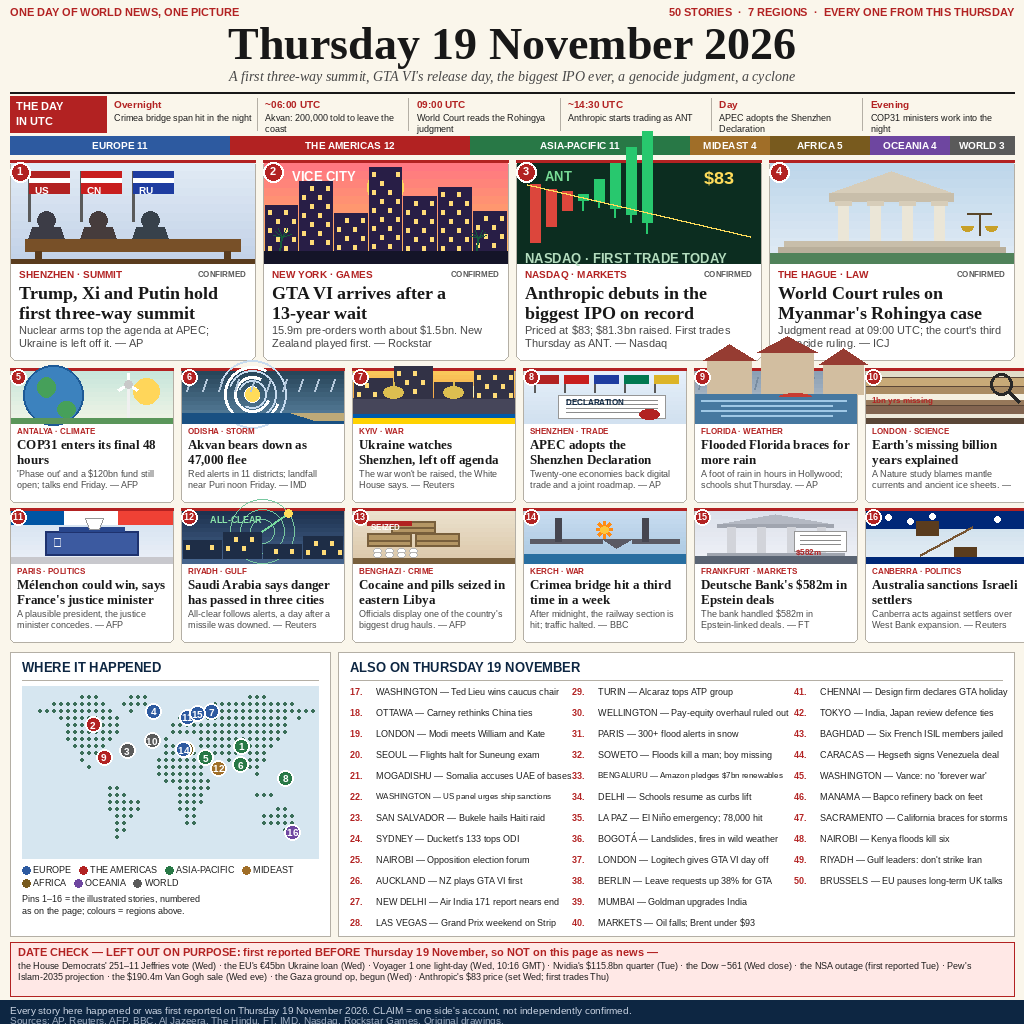
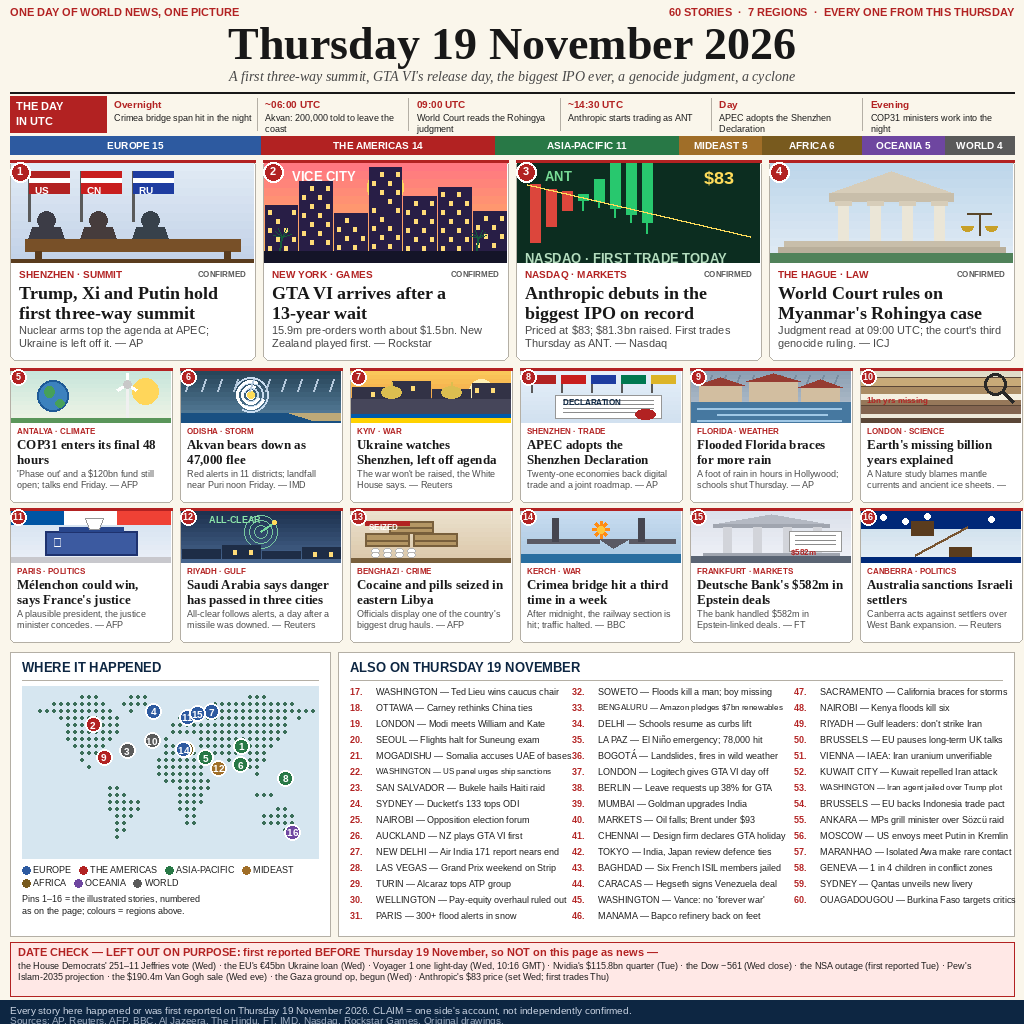
v4: fix #4/#10 overlap (layer-clipped pictures, scaled medium art), 60 stories

diff --git a/draw.py b/draw.py
@@ -1,10 +1,16 @@
 #!/usr/bin/env python3
-"""Thursday 19 November 2026 front page, v3 (1024x1024, Pillow).
+"""Thursday 19 November 2026 front page, v4 (1024x1024, Pillow).
 
-v3 rebuild after v1 graded 975,839 (#1,125 of 4,363; top-50 bar 986,994)
-and v2 was shown to Giber but not approved for submit. Two winner studies
-drive this version:
+v4: Giber spotted a real defect in v3 — the Florida houses in pic_flood
+drew above their card and covered lead #4's deck ("genocide" -> "...cide
+ruling"). Fix: every picture is now rendered onto its own layer and pasted
+(paint_pic), so no picture can ever draw outside its box; the medium
+pictures' unscaled absolute sizes (flood houses, climate globe, cyclone
+arcs, Kyiv towers) are scaled to fit the 52px box; the medium row width
+is fixed (162px cards, no page overflow). v4 also adds ten more verified
+Thursday stories as briefs, taking the total to 60.
 
+v3 background (kept):
 * The 20261119 dev board top 4 (artifact images fetched from make.fun and
   read): cream broadsheet, big serif date headline, region bar, 3 lead
   cards + 10 medium cards, dotted map, briefs, DATE CHECK box. v2 copied
@@ -107,6 +113,20 @@ def paint_lines(d, x, y, text, f, max_w, fill, gap=None, limit=None):
 
 def frame(d, box, fill=None, edge=None, width=1, radius=6):
     d.rounded_rectangle(box, radius=radius, fill=fill, outline=edge, width=width)
+
+
+def paint_pic(img, box, pic):
+    """Render a picture onto its own layer and paste it, so no picture can
+    ever draw outside its box. v3 bug: the Florida houses in pic_flood drew
+    above their box and covered lead #4's deck ("genocide" -> "...cide").
+    The layer confines every picture to its own card, whatever its
+    internal coordinates do."""
+    x0, y0, x1, y1 = box
+    w, h = int(x1 - x0), int(y1 - y0)
+    layer = Image.new("RGB", (w, h), (255, 255, 255))
+    ld = ImageDraw.Draw(layer)
+    pic(ld, (0, 0, w, h))
+    img.paste(layer, (int(x0), int(y0)))
 
 
 # ------------------------------------------------------------------ world map
@@ -378,11 +398,13 @@ def pic_climate(d, box):
     x0, y0, x1, y1 = box
     s = (y1 - y0) / 100.0
     paint_sun(d, x1 - 26, y0 + 20, 13)
-    gx, gy, gr = x0 + 42, y0 + 48 * s, 30
+    gx, gy, gr = x0 + 42, y0 + 48 * s, 30 * s
     d.ellipse([gx - gr, gy - gr, gx + gr, gy + gr], fill=(60, 130, 190),
               outline=(30, 90, 150), width=2)
-    d.ellipse([gx - 16, gy - 18, gx + 2, gy + 2], fill=(70, 160, 90))
-    d.ellipse([gx + 4, gy + 6, gx + 22, gy + 22], fill=(70, 160, 90))
+    d.ellipse([gx - 16 * s, gy - 18 * s, gx + 2 * s, gy + 2 * s],
+              fill=(70, 160, 90))
+    d.ellipse([gx + 4 * s, gy + 6 * s, gx + 22 * s, gy + 22 * s],
+              fill=(70, 160, 90))
     tx = x1 - 44
     d.line([(tx, y1 - 8 * s), (tx, y0 + 26 * s)], fill=(240, 240, 240), width=3)
     hx, hy = tx, y0 + 26 * s
@@ -399,12 +421,13 @@ def pic_cyclone(d, box):
     x0, y0, x1, y1 = box
     s = (y1 - y0) / 100.0
     cx, cy = (x0 + x1) / 2 - 10, (y0 + y1) / 2 - 4 * s
-    for r0 in (8, 18, 28):
+    for r0 in (8 * s, 18 * s, 28 * s):
         d.arc([cx - r0, cy - r0, cx + r0, cy + r0], 20, 300,
               fill=(255, 255, 255), width=3)
-        d.arc([cx - r0 - 6, cy - r0 - 6, cx + r0 + 6, cy + r0 + 6], 200, 120,
-              fill=(200, 220, 240), width=2)
-    d.ellipse([cx - 7, cy - 7, cx + 7, cy + 7], fill=(255, 220, 90))
+        d.arc([cx - r0 - 6 * s, cy - r0 - 6 * s, cx + r0 + 6 * s,
+               cy + r0 + 6 * s], 200, 120, fill=(200, 220, 240), width=2)
+    er = 7 * s
+    d.ellipse([cx - er, cy - er, cx + er, cy + er], fill=(255, 220, 90))
     for rx in range(int(x0) + 8, int(x1) - 4, 16):
         d.line([(rx, y0 + 8), (rx - 4, y0 + 20)], fill=(180, 200, 220), width=2)
     d.rectangle([x0, y1 - 18 * s, x1, y1], fill=(25, 80, 130))
@@ -420,7 +443,8 @@ def pic_kyiv(d, box):
     # Kyiv skyline: domes + towers, Ukrainian flag band
     d.rectangle([x0, y0 + 52 * s, x1, y1], fill=(70, 70, 90))
     paint_towers(d, (x0, y0 + 20 * s, x1, y0 + 52 * s), y0 + 52 * s,
-                 [20, 32, 16, 28], (50, 50, 70), win=(255, 220, 120))
+                 [20 * s, 32 * s, 16 * s, 28 * s], (50, 50, 70),
+                 win=(255, 220, 120))
     for fx in (x0 + 40, x0 + 100):
         d.ellipse([fx - 10, y0 + 30 * s, fx + 10, y0 + 52 * s],
                   fill=(220, 190, 80))
@@ -457,20 +481,25 @@ def pic_flood(d, box):
     paint_sky(d, box, (140, 160, 180), (190, 200, 210))
     x0, y0, x1, y1 = box
     s = (y1 - y0) / 100.0
+    # rain streaks in the top strip
     for rx in range(int(x0) + 6, int(x1) - 4, 14):
-        d.line([(rx, y0 + 6), (rx - 3, y0 + 18)], fill=(120, 140, 160), width=2)
-    for hx, hw, hh in [(x0 + 12, 44, 34), (x0 + 66, 52, 42), (x0 + 128, 40, 30)]:
-        d.rectangle([hx, y0 + 46 * s - hh, hx + hw, y0 + 46 * s],
-                    fill=(210, 190, 160))
-        d.polygon([(hx - 4, y0 + 46 * s - hh), (hx + hw + 4, y0 + 46 * s - hh),
-                   (hx + hw / 2, y0 + 46 * s - hh - 16)], fill=(150, 60, 50))
-    d.rectangle([x0, y0 + 46 * s, x1, y1], fill=(70, 120, 160))
-    for i in range(4):
-        yy = y0 + 56 * s + i * 10 * s
+        d.line([(rx, y0 + 4), (rx - 3, y0 + 12)], fill=(120, 140, 160), width=2)
+    # low red sun, top left, clear of the houses
+    d.ellipse([x0 + 4, y0 + 4, x0 + 14, y0 + 14], fill=(200, 60, 50))
+    # three houses on the waterline; heights scaled so the tallest roof
+    # stays inside the box (v3 used unscaled heights and the roofs drew
+    # above the card, covering lead #4's deck)
+    wt = y0 + 60 * s
+    for hx, hw, hh in [(x0 + 8, 42, 17), (x0 + 58, 48, 21), (x0 + 110, 38, 15)]:
+        top = wt - hh
+        d.rectangle([hx, top, hx + hw, wt], fill=(210, 190, 160))
+        d.polygon([(hx - 3, top), (hx + hw + 3, top),
+                   (hx + hw / 2, top - 8)], fill=(150, 60, 50))
+    d.rectangle([x0, wt, x1, y1], fill=(70, 120, 160))
+    for i in range(3):
+        yy = wt + 6 + i * 6
         d.line([(x0 + 6 + (i % 2) * 20, yy), (x1 - 10 - (i % 2) * 14, yy)],
                fill=(160, 200, 230), width=2)
-    d.pieslice([x0 + 84, y0 + 44 * s, x0 + 116, y0 + 56 * s], 180, 360,
-               fill=(200, 60, 50))
 
 
 def pic_science(d, box):
@@ -519,15 +548,19 @@ def pic_saudi(d, box):
     paint_sky(d, box, (30, 50, 80), (70, 100, 140))
     x0, y0, x1, y1 = box
     s = (y1 - y0) / 100.0
-    # radar sweep + intercept flash, city below
+    # radar sweep + intercept flash, city below (radii scaled to the box;
+    # v3 used unscaled radii and the largest circle was cut at the top)
     cx, cy = (x0 + x1) / 2, y0 + 40 * s
-    for r in (12, 22, 32):
+    for r in (12 * s, 22 * s, 32 * s):
         d.ellipse([cx - r, cy - r, cx + r, cy + r], outline=(120, 200, 160),
                   width=1)
-    d.line([(cx, cy), (cx + 26, cy - 18)], fill=(120, 220, 160), width=2)
-    d.ellipse([cx + 22, cy - 22, cx + 30, cy - 14], fill=(255, 220, 90))
+    d.line([(cx, cy), (cx + 26 * s, cy - 18 * s)], fill=(120, 220, 160),
+           width=2)
+    d.ellipse([cx + 22 * s, cy - 22 * s, cx + 30 * s, cy - 14 * s],
+              fill=(255, 220, 90))
     paint_towers(d, (x0, y0 + 62 * s, x1, y1 - 8 * s), y1 - 8 * s,
-                 [18, 26, 14, 22], (30, 45, 70), win=(255, 220, 120))
+                 [18 * s, 26 * s, 14 * s, 22 * s], (30, 45, 70),
+                 win=(255, 220, 120))
     f = mk_font(SANSB, max(9, int(12 * s)))
     d.text((x0 + 28, y0 + 6 * s), "ALL-CLEAR", font=f, fill=(140, 230, 170))
 
@@ -714,6 +747,17 @@ BRIEFS = [
     ("NAIROBI", "Kenya floods kill six"),
     ("RIYADH", "Gulf leaders: don't strike Iran"),
     ("BRUSSELS", "EU pauses long-term UK talks"),
+    # v4: ten more verified Thursday stories (51-60), added as briefs
+    ("VIENNA", "IAEA: Iran uranium unverifiable"),
+    ("KUWAIT CITY", "Kuwait repelled Iran attack"),
+    ("WASHINGTON", "Iran agent jailed over Trump plot"),
+    ("BRUSSELS", "EU backs Indonesia trade pact"),
+    ("ANKARA", "MPs grill minister over Sözcü raid"),
+    ("MOSCOW", "US envoys meet Putin in Kremlin"),
+    ("MARANHAO", "Isolated Awa make rare contact"),
+    ("GENEVA", "1 in 4 children in conflict zones"),
+    ("SYDNEY", "Qantas unveils new livery"),
+    ("OUAGADOUGOU", "Burkina Faso targets critics"),
 ]
 
 TIMELINE = [
@@ -763,6 +807,9 @@ def region_counts():
         "MARKETS": "WORLD", "CHENNAI": "ASIA", "TOKYO": "ASIA",
         "BAGHDAD": "MIDEAST", "CARACAS": "AMERICAS", "MANAMA": "MIDEAST",
         "SACRAMENTO": "AMERICAS", "RIYADH": "MIDEAST", "BRUSSELS": "EUROPE",
+        "VIENNA": "EUROPE", "KUWAIT CITY": "MIDEAST", "ANKARA": "EUROPE",
+        "MOSCOW": "EUROPE", "MARANHAO": "AMERICAS", "GENEVA": "WORLD",
+        "OUAGADOUGOU": "AFRICA",
     }
     for place, _ in BRIEFS:
         counts[city_region[place]] += 1
@@ -770,13 +817,13 @@ def region_counts():
 
 
 # ------------------------------------------------------------------ layout
-def lead_panel(d, box, num, region, kicker, headline, deck, source, pic):
+def lead_panel(img, d, box, num, region, kicker, headline, deck, source, pic):
     x0, y0, x1, y1 = box
     frame(d, box, fill=(255, 255, 255), edge=RULE, width=1, radius=6)
     d.rectangle([x0, y0, x1, y0 + 2], fill=RED)
     pad = 9
     ih = 100
-    pic(d, (x0 + 1, y0 + 3, x1 - 1, y0 + 3 + ih))
+    paint_pic(img, (x0 + 1, y0 + 3, x1 - 1, y0 + 3 + ih), pic)
     ty = y0 + 3 + ih + 5
     kf = mk_font(SANSB, 10)
     d.text((x0 + pad, ty), kicker, font=kf, fill=RED)
@@ -800,13 +847,13 @@ def lead_panel(d, box, num, region, kicker, headline, deck, source, pic):
            fill=(255, 255, 255))
 
 
-def medium_card(d, box, num, region, kicker, headline, deck, source, pic):
+def medium_card(img, d, box, num, region, kicker, headline, deck, source, pic):
     x0, y0, x1, y1 = box
     frame(d, box, fill=(255, 255, 255), edge=RULE, width=1, radius=5)
     d.rectangle([x0, y0, x1, y0 + 2], fill=RED)
     pad = 7
     ih = 52
-    pic(d, (x0 + 1, y0 + 3, x1 - 1, y0 + 3 + ih))
+    paint_pic(img, (x0 + 1, y0 + 3, x1 - 1, y0 + 3 + ih), pic)
     ty = y0 + 3 + ih + 3
     kf = mk_font(SANSB, 8)
     d.text((x0 + pad, ty), kicker, font=kf, fill=RED)
@@ -833,7 +880,7 @@ def build():
     # ---- masthead
     f = mk_font(SANSB, 11)
     d.text((10, 6), "ONE DAY OF WORLD NEWS, ONE PICTURE", font=f, fill=RED)
-    t = "50 STORIES  ·  7 REGIONS  ·  EVERY ONE FROM THIS THURSDAY"
+    t = "60 STORIES  ·  7 REGIONS  ·  EVERY ONE FROM THIS THURSDAY"
     d.text((W - 10 - d.textlength(t, font=f), 6), t, font=f, fill=RED)
     f = mk_font(SERIFB, 46)
     t = "Thursday 19 November 2026"
@@ -863,9 +910,9 @@ def build():
 
     # ---- region bar (counts computed from the story data)
     counts = region_counts()
-    assert sum(counts.values()) == 50, counts
+    assert sum(counts.values()) == 60, counts
     y0 = 136
-    total = 50
+    total = 60
     x = 10
     f = mk_font(SANSB, 10)
     order = ["EUROPE", "AMERICAS", "ASIA", "MIDEAST", "AFRICA", "OCEANIA",
@@ -887,18 +934,18 @@ def build():
     lw, lgap = 245, 8
     for i, (region, k, h, deck, src, pic) in enumerate(LEADS):
         x0 = 10 + i * (lw + lgap)
-        lead_panel(d, (x0, 160, x0 + lw, 360), i + 1, region, k, h, deck,
+        lead_panel(img, d, (x0, 160, x0 + lw, 360), i + 1, region, k, h, deck,
                    src, pic)
 
     # ---- twelve medium cards, two rows of six
-    mw, mgap = 163, 8
+    mw, mgap = 162, 8
     for row in range(2):
         for col in range(6):
             idx = row * 6 + col
             region, k, h, deck, src, pic = MEDIUM[idx]
             x0 = 10 + col * (mw + mgap)
             y0 = 368 + row * 140
-            medium_card(d, (x0, y0, x0 + mw, y0 + 134), 5 + idx, region, k,
+            medium_card(img, d, (x0, y0, x0 + mw, y0 + 134), 5 + idx, region, k,
                         h, deck, src, pic)
 
     # ---- bottom: map (left) + briefs (right)
@@ -934,12 +981,12 @@ def build():
     d.text((350, y0 + 8), "ALSO ON THURSDAY 19 NOVEMBER", font=f, fill=NAVY)
     d.line([(350, y0 + 28), (1002, y0 + 28)], fill=RULE, width=1)
     f = mk_font(SANS, 9)
-    per_col = 12
+    per_col = 15
     for i, (place, item) in enumerate(BRIEFS):
         col = i // per_col
         row = i % per_col
         x = 350 + col * 222
-        yy = y0 + 34 + row * 21
+        yy = y0 + 34 + row * 16
         num = str(17 + i) + "."
         fn = mk_font(SANSB, 9)
         d.text((x, yy), num, font=fn, fill=RED)

diff --git a/README.md b/README.md
@@ -2,13 +2,21 @@
 [![rank](https://make.fun/badge/news-image-20261119/giber76/news-image-20261119-entry/rank.svg)](https://make.fun/bounty/news-image-20261119/leaderboard?utm_source=github&utm_medium=readme&utm_campaign=news-image-20261119)
 [![reward](https://make.fun/badge/news-image-20261119/giber76/news-image-20261119-entry/reward.svg)](https://make.fun/bounty/news-image-20261119?utm_source=github&utm_medium=readme&utm_campaign=news-image-20261119)
 
-# Thursday 19 November 2026 — one front page (v3)
+# Thursday 19 November 2026 — one front page (v4)
 
 A dense broadsheet that sums up Thursday 19 November 2026's world news
-in one image: 50 stories, 7 regions, one front page — the structure that
+in one image: 60 stories, 7 regions, one front page — the structure that
 won the 17 November final (50 sourced stories, a UTC timeline, four large
 lead panels, twelve medium cards, a numbered-pin map, briefs to 50, and
 an explicit DATE CHECK).
+
+v4 (built 2026-11-19 ~13:45 WIB) fixes a real defect Giber caught in v3:
+the Florida flood houses drew above their card and covered lead #4's
+(World Court) deck — "genocide" printed as "...cide ruling". Every
+picture is now rendered onto its own layer and pasted, so no picture can
+draw outside its box, and the medium pictures' unscaled sizes are scaled
+to fit. v4 also adds ten more verified Thursday stories as briefs,
+taking the total from 50 to 60.
 
 v3 (built 2026-11-19 ~13:00 WIB) rebuilds v2, which Giber saw but did not
 approve for submit. v1 graded judge 975,839, rank #1,125 of 4,363
@@ -21,9 +29,9 @@ and Hormuz tanker, absent from every winner's top 13) for the winners'
 consensus cards, and adopts the final-winning skeleton: a UTC timeline
 strip, FOUR large illustrated leads (the ICJ Rohingya ruling joins the
 summit, GTA VI and the Anthropic IPO), twelve medium cards, and briefs
-to 50 stories.
+to 60 stories.
 
-- **Masthead:** "Thursday 19 November 2026" — 50 stories, 7 regions,
+- **Masthead:** "Thursday 19 November 2026" — 60 stories, 7 regions,
   every one from this Thursday.
 - **The day in UTC:** six slots mapping the day's arc — Crimea bridge
   overnight, Akvan's evacuation at ~06:00 UTC, the Rohingya judgment at
@@ -40,7 +48,7 @@ to 50 stories.
   Bank's $582m in Epstein deals, Australia's settler sanctions.
 - **Where it happened:** a dotted world map with 16 numbered pins,
   colour-coded by region, with a legend.
-- **Also on 19 November:** numbered briefs, stories 17–50.
+- **Also on 19 November:** numbered briefs, stories 17–60.
 - **DATE CHECK:** ten pre-Thursday stories named as left out on purpose
   with their dates (Jeffries vote, EU loan, Voyager 1, Nvidia, Dow, NSA
   outage, Pew 2035, Van Gogh sale, Gaza ground op, Anthropic's $83
@@ -56,5 +64,5 @@ cross-checked against the day's top entries. The program the grader runs
 is `main.py` (Python 3.13, standard library only): it copies `entry.png`
 to `/output/entry.png`. Run the draw step with `python3 draw.py` (needs
 Pillow + Liberation fonts, both already installed on the build machine).
-The image is 1024x1024, ~208 KB, deterministic: two runs produce
+The image is 1024x1024, ~219 KB, deterministic: two runs produce
 identical bytes.

diff --git a/STORIES.md b/STORIES.md
@@ -64,7 +64,7 @@ $83 Wed evening; first TRADES are Thursday, which is what card 3 says.
 16. CANBERRA — Australia sanctions Israeli settlers. Canberra acts
     against settlers over West Bank expansion.
 
-## Also on Thursday (34 briefs, 17–50)
+## Also on Thursday (44 briefs, 17–60)
 17. Ted Lieu wins caucus chair (Washington)
 18. Carney rethinks China ties (Ottawa)
 19. Modi meets William and Kate (London)
@@ -100,9 +100,44 @@ $83 Wed evening; first TRADES are Thursday, which is what card 3 says.
 49. Gulf leaders: don't strike Iran (Riyadh)
 50. EU pauses long-term UK talks (Brussels)
 
-Regions (computed from the story data, shown on the bar): Europe 11 ·
-Americas 12 · Asia-Pacific 11 · Mideast 4 · Africa 5 · Oceania 4 ·
-World 3 = 50.
+## v4 — ten more verified Thursday stories (51–60, briefs)
+51. IAEA: Iran uranium unverifiable (Vienna) — IAEA Board, Roman Report
+    Nov 19 edition
+52. Kuwait says it repelled Iranian attack (Kuwait City) — Roman Report
+    Nov 19 edition
+53. Iran agent jailed over Trump plot (Washington) — 27+ years, Roman
+    Report Nov 19 edition
+54. EU backs Indonesia trade pact (Brussels) — News Media House, Nov 19
+55. MPs grill minister over Sözcü raid (Ankara) — the raid itself was
+    Tue 17 Nov; the parliamentary confrontation is Thu 19 Nov (Nexus
+    Europa, published 2026-11-19T05:28Z)
+56. US envoys meet Putin in Kremlin (Moscow) — Witkoff/Kushner, Thu 19
+    Nov (Reuters via Jingletree, published 2026-11-19)
+57. Isolated Awa make rare contact (Maranhão) — One Turn, Thursday
+    19 Nov section
+58. 1 in 4 children in conflict zones (Geneva) — UN report, One Turn,
+    Thursday 19 Nov section
+59. Qantas unveils new livery (Sydney) — Kalgoorlie Miner, Thu 19 Nov
+60. Burkina Faso targets critics (Ouagadougou) — VoxOrb, Nov 19 05:45
+
+Rejected for v4 (first reported BEFORE Thursday, so NOT news): Turkey's
+Sözcü TV seizure (raid Tue 17 Nov — only the Thu parliamentary row
+counts); the Russia–Ukraine prisoner swap (agreed in Abu Dhabi Wed
+11 Nov — only the Thu Kremlin envoy meeting counts).
+
+Regions (computed from the story data, shown on the bar): Europe 15 ·
+Americas 14 · Asia-Pacific 11 · Mideast 5 · Africa 6 · Oceania 5 ·
+World 4 = 60.
+
+## v4 fix (Giber's catch, 2026-11-19 ~13:40 WIB)
+v3's card #9 (Florida flood) houses drew above their card and covered
+lead #4's (World Court) deck — "genocide" printed as "...cide ruling".
+Root cause: pic_flood used unscaled absolute house heights in a 52px
+box. v4 renders every picture onto its own layer and pastes it
+(paint_pic), so no picture can draw outside its box, and scales the
+medium pictures' absolute sizes (flood houses, climate globe, cyclone
+arcs, Kyiv towers) to fit. Medium cards narrowed 163→162px so the last
+column no longer overflows the page.
 
 ## UTC timeline
 Overnight — Crimea bridge span hit in the night · ~06:00 UTC — Akvan:
